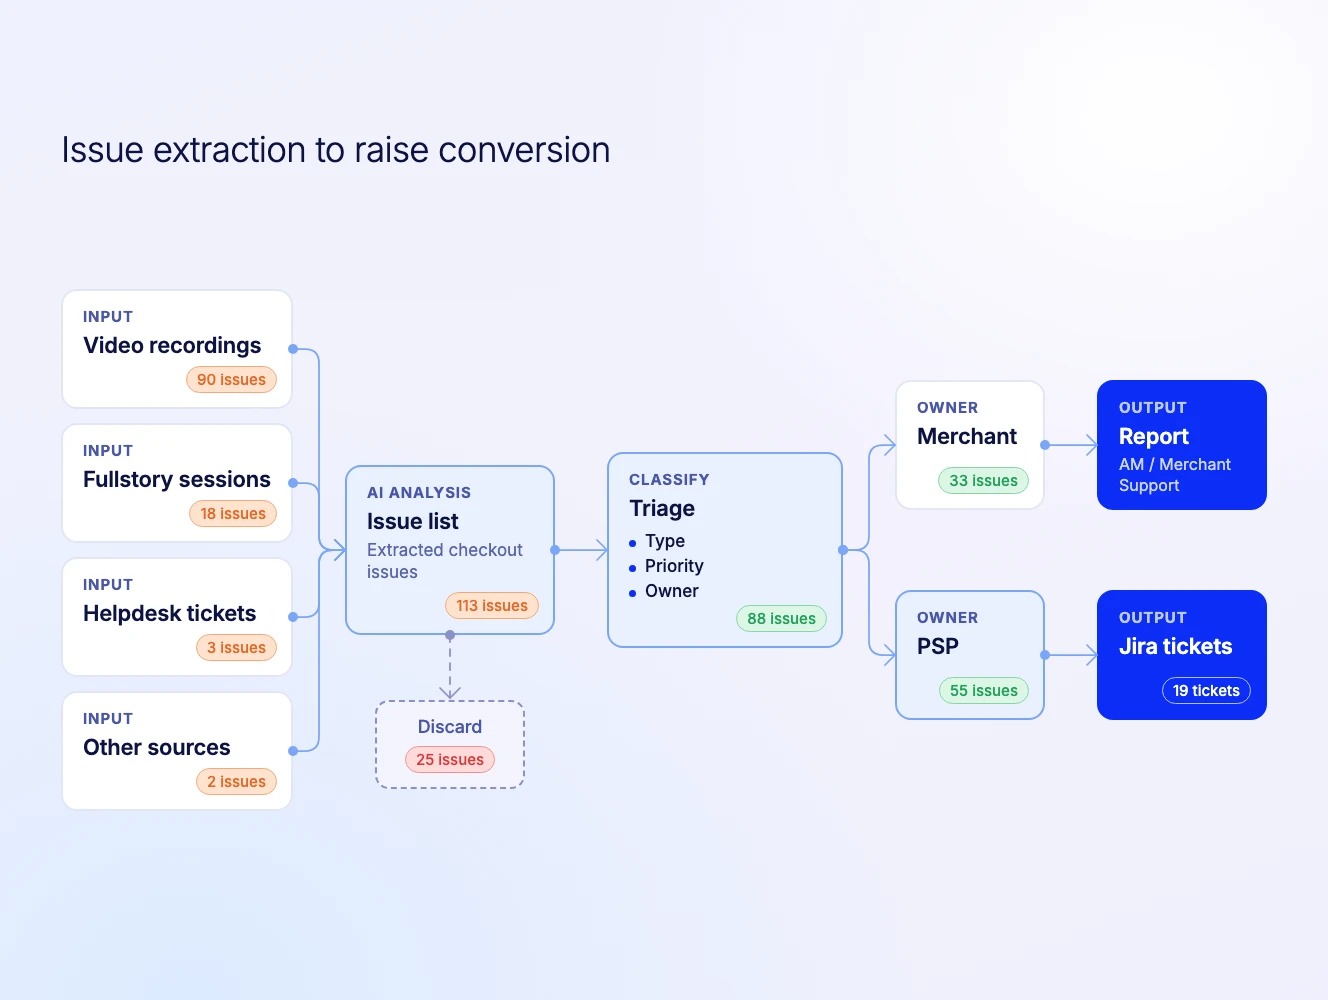
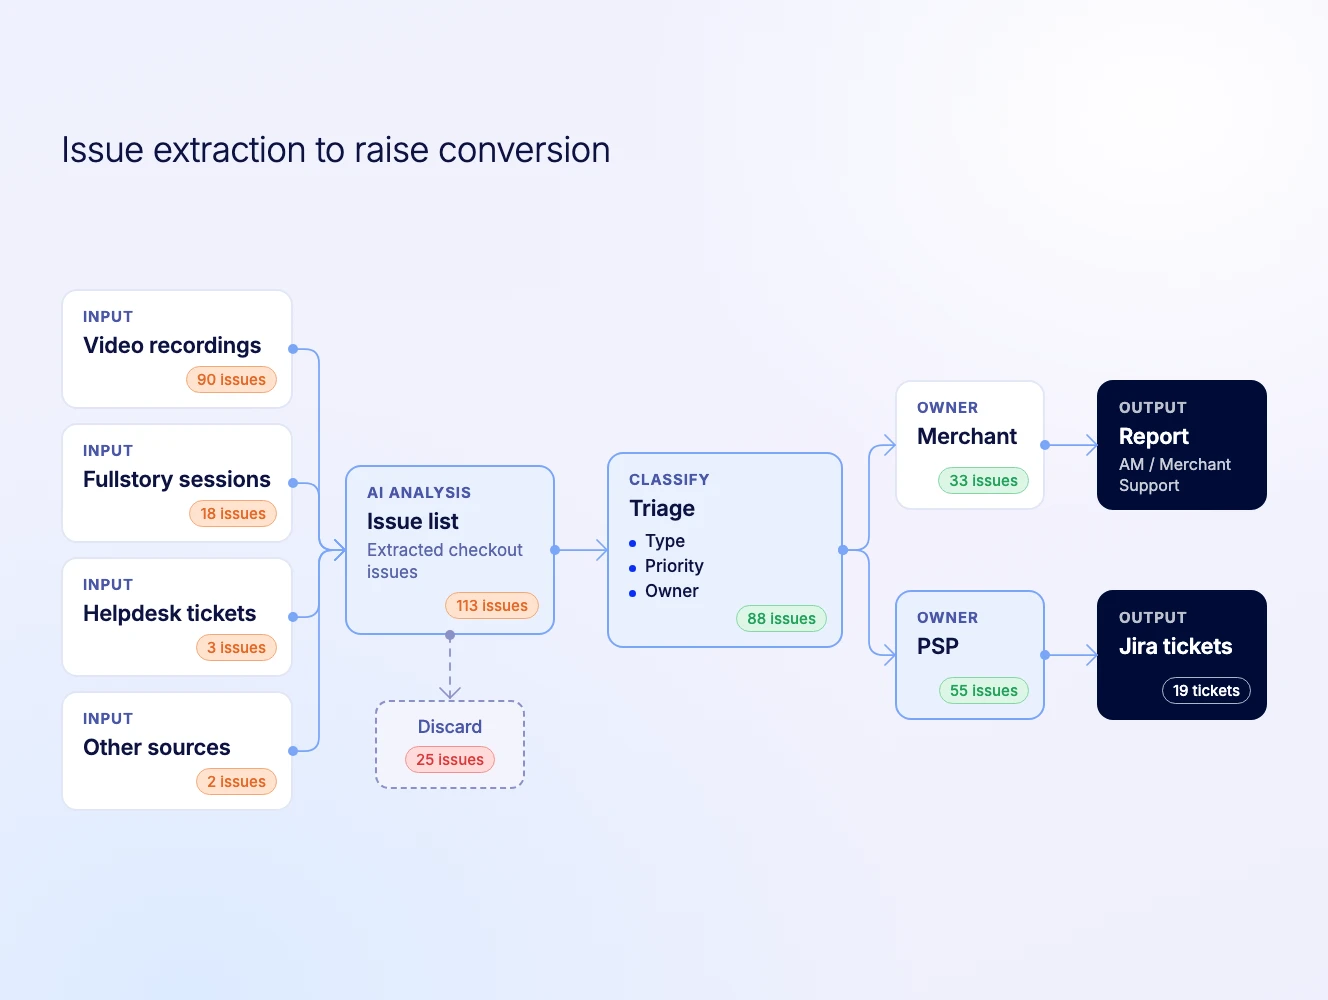
Checkout case, AI diagram: output boxes in #000b36

Changed region(s): [[0.8027, 0.589, 0.9571, 0.744], [0.8027, 0.372, 0.9571, 0.527]]

diff --git a/checkout.html b/checkout.html
@@ -204,7 +204,7 @@
     </div>
     <figure class="cs-media zoomable" data-reveal>
       <button class="zoom-btn on-light" type="button" aria-label="Enlarge image"><svg width="20" height="20" viewBox="0 0 24 24" fill="none" stroke="currentColor" stroke-width="2" stroke-linecap="round" stroke-linejoin="round" aria-hidden="true"><polyline points="15 3 21 3 21 9"/><polyline points="9 21 3 21 3 15"/><line x1="21" y1="3" x2="14" y2="10"/><line x1="3" y1="21" x2="10" y2="14"/></svg></button>
-      <img src="img/checkout/ai-workflow.webp?v=8" width="1328" height="1000" loading="lazy" alt="Issue extraction to raise conversion. Inputs: video recordings (90 issues), Fullstory sessions (18), Helpdesk tickets (3) and other sources (2). The AI analysis extracts 113 issues, discards 25 and triages 88 by type, priority and owner. Then by owner and output: 33 merchant issues go into a report for AM and Merchant Support, 55 PSP issues become 19 Jira tickets">
+      <img src="img/checkout/ai-workflow.webp?v=9" width="1328" height="1000" loading="lazy" alt="Issue extraction to raise conversion. Inputs: video recordings (90 issues), Fullstory sessions (18), Helpdesk tickets (3) and other sources (2). The AI analysis extracts 113 issues, discards 25 and triages 88 by type, priority and owner. Then by owner and output: 33 merchant issues go into a report for AM and Merchant Support, 55 PSP issues become 19 Jira tickets">
     </figure>
   </section>
 
